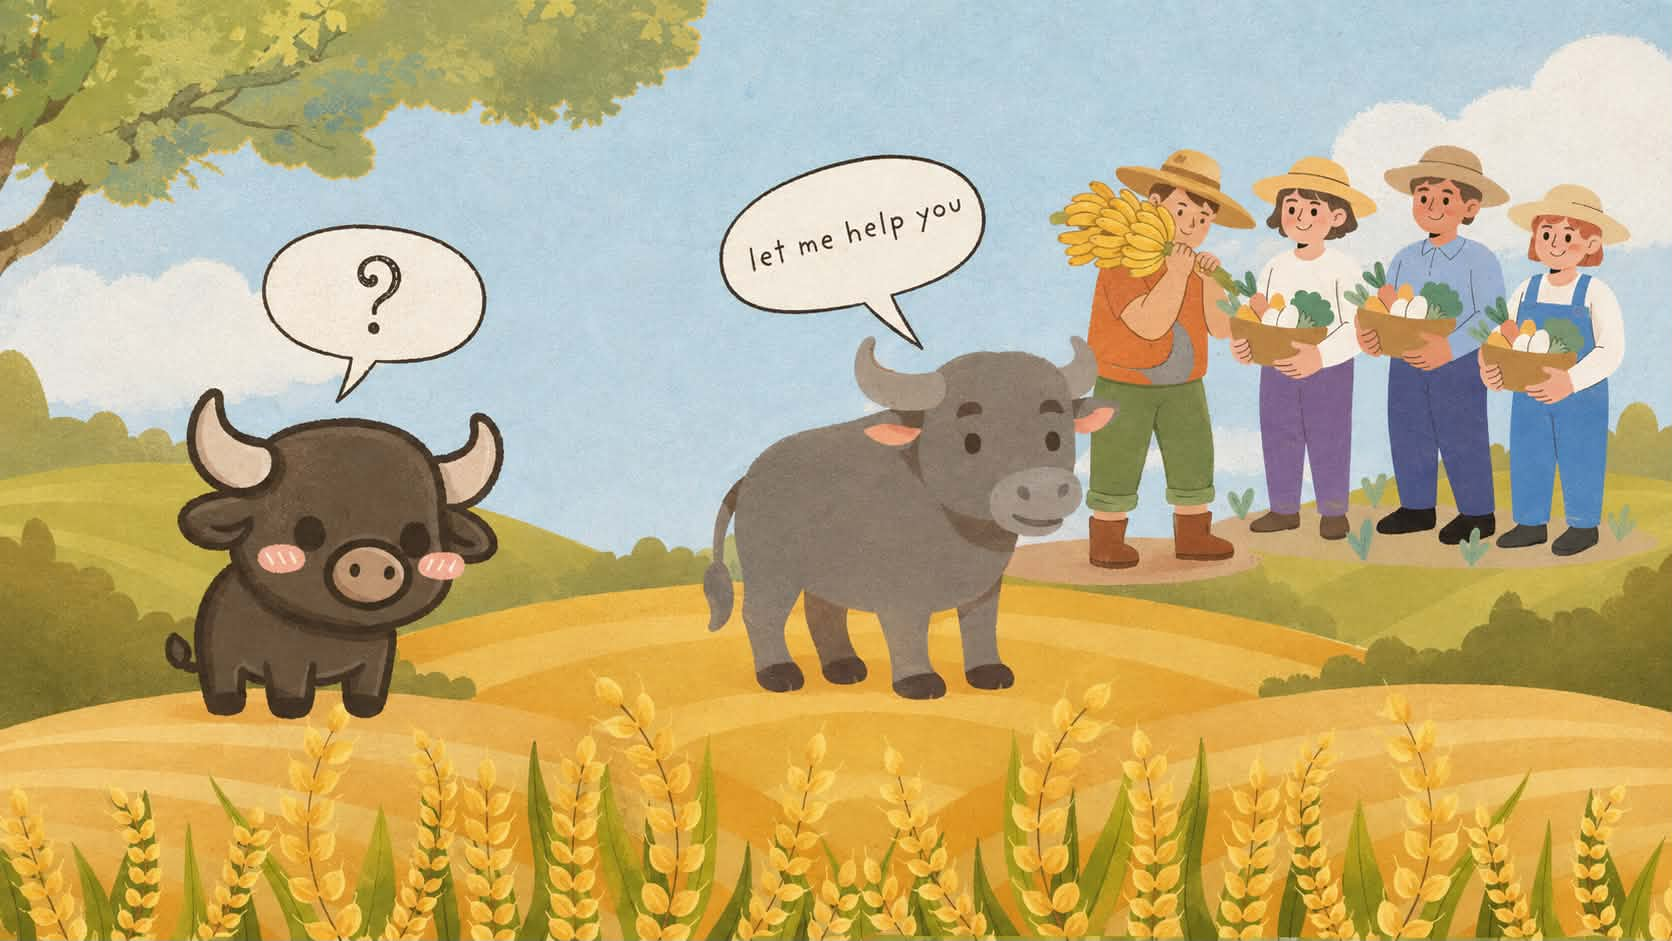
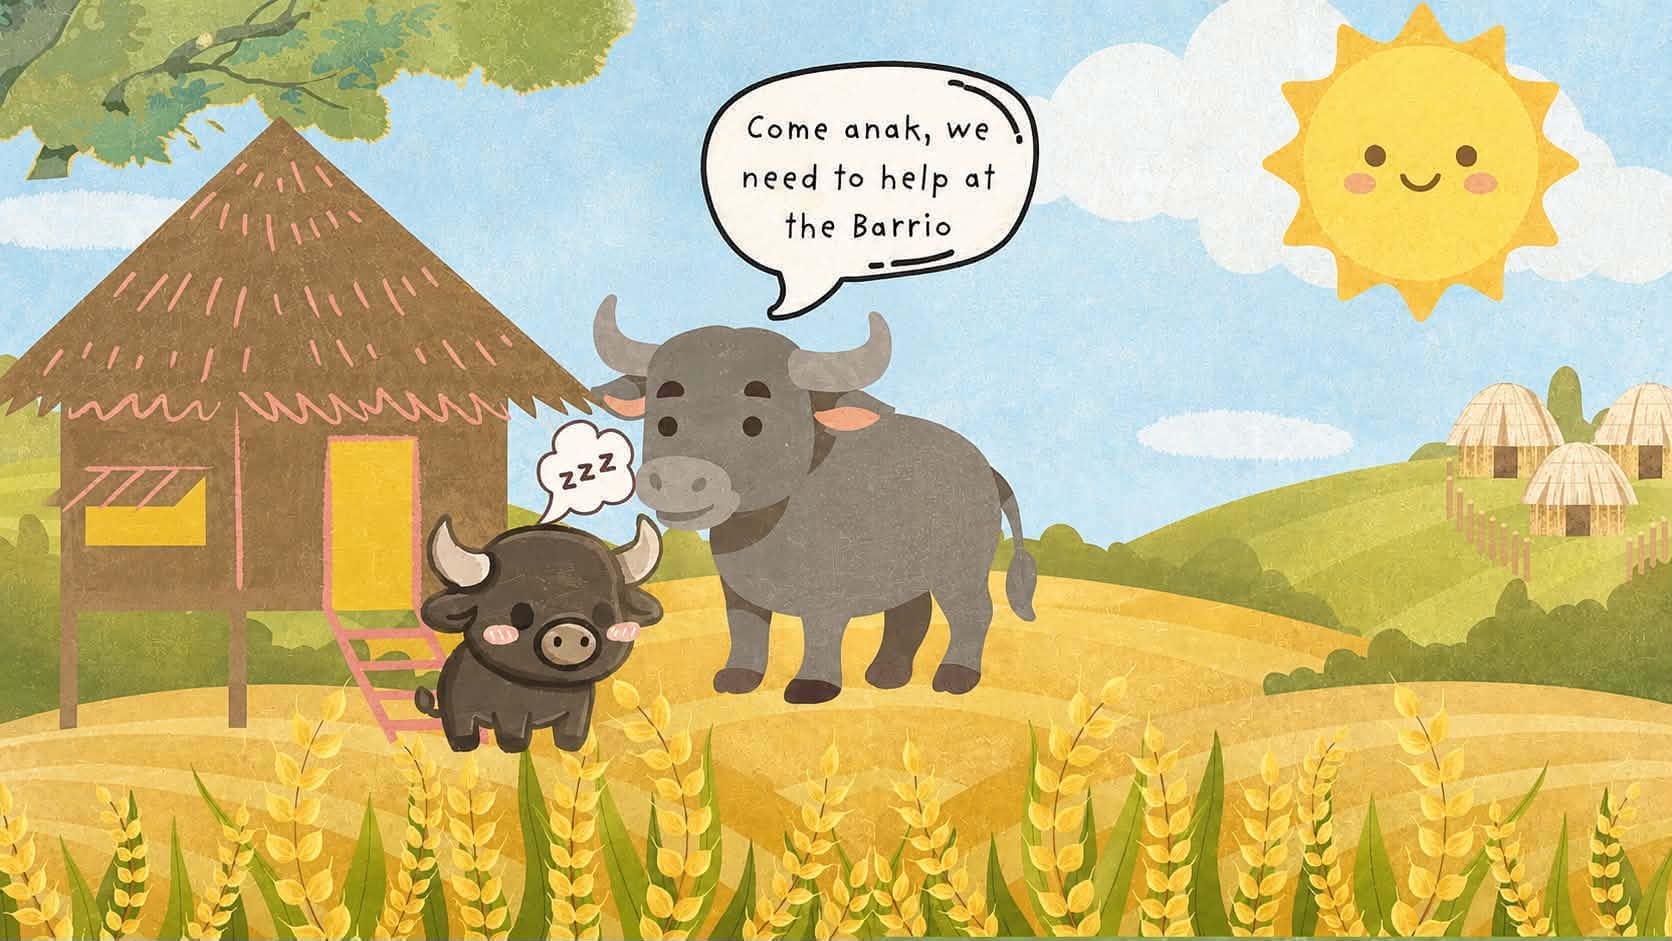
Group 1: move the 'Come anak' panel up to the first body panel
Redo of eb667af, which the revert in 6156062 correctly undid. That
attempt promoted the panel into the FRONT IMAGE slot (01.jpg); the
request was the first BODY panel (01-s2.jpg).

The front image is untouched and stays the opening scene. Only the
first three body panels rotate:

  01-s2  'Come anak, we need to help at the Barrio'  (was 01-s4)
  01-s3  Bago '?' and four villagers                 (was 01-s2)
  01-s4  'huh? why do nanay keeps helping?'          (was 01-s3)

01-s5 through 01-s12 and the cover are unchanged. Alt text moved with
each image.

diff --git a/stories.js b/stories.js
@@ -164,10 +164,10 @@ window.STORIES = [
     "paragraphLimit": 7,
     "body": [
       "In a quiet Filipino village surrounded by green rice fields, where the air whistles softly, there lived a young carabao named Bago and his mother, Nanay Tala. Every morning Nanay Tala would wake early, earlier than the sun, and she would wake Bago before the sun rose. “Come, anak, we need to help at the barrio,” she would say.",
-      { "image": "./assets/img/01-s2.jpg", "alt": "Nanay Tala says “let me help you” to four villagers holding baskets of produce, while a question mark hangs over Bago’s head." },
-      { "image": "./assets/img/01-s3.jpg", "alt": "Bago wonders “huh? why do nanay keeps helping?” as Nanay Tala offers “let me help you” to a farmer and a young rice picker." },
+      { "image": "./assets/img/01-s2.jpg", "alt": "Nanay Tala calls “Come anak, we need to help at the Barrio” while Bago dozes beside the nipa hut in the rice field." },
+      { "image": "./assets/img/01-s3.jpg", "alt": "Nanay Tala says “let me help you” to four villagers holding baskets of produce, while a question mark hangs over Bago’s head." },
       "Bago would follow his mother through the village, but he would often wonder why she always stopped to help others.",
-      { "image": "./assets/img/01-s4.jpg", "alt": "Nanay Tala calls “Come anak, we need to help at the Barrio” while Bago dozes beside the nipa hut in the rice field." },
+      { "image": "./assets/img/01-s4.jpg", "alt": "Bago wonders “huh? why do nanay keeps helping?” as Nanay Tala offers “let me help you” to a farmer and a young rice picker." },
       "She helped the farmers carry heavy bundles of vegetables. She would share their food with hungry goats. She would help the smallest animals cross the muddy road.",
       { "image": "./assets/img/01-s5.jpg", "alt": "Bago asks “Nanay, why do you always help them?” and Nanay Tala answers “Someday, you will understand.”" },
       "One morning Bago asked, “Nanay, why do you always help everyone? What benefit will you receive? Aren’t you tired?” Nanay Tala smiled. “Of course I get tired, anak, but life is easier when we help one another.” “But what if they never help us back?” Bago asked. Nanay Tala gently touched his head with hers. “Helping is not always about getting something in return. Someday you will understand.” But Bago did not completely understand.",

diff --git a/story-01.html b/story-01.html
@@ -142,14 +142,14 @@
     <div class="story__body">
       <p>In a quiet Filipino village surrounded by green rice fields, where the air whistles softly, there lived a young carabao named Bago and his mother, Nanay Tala. Every morning Nanay Tala would wake early, earlier than the sun, and she would wake Bago before the sun rose. “Come, anak, we need to help at the barrio,” she would say.</p>
       <figure class="story__panel">
-        <img src="./assets/img/01-s2.jpg" alt="Nanay Tala says “let me help you” to four villagers holding baskets of produce, while a question mark hangs over Bago’s head." loading="lazy" decoding="async">
+        <img src="./assets/img/01-s2.jpg" alt="Nanay Tala calls “Come anak, we need to help at the Barrio” while Bago dozes beside the nipa hut in the rice field." loading="lazy" decoding="async">
       </figure>
       <figure class="story__panel">
-        <img src="./assets/img/01-s3.jpg" alt="Bago wonders “huh? why do nanay keeps helping?” as Nanay Tala offers “let me help you” to a farmer and a young rice picker." loading="lazy" decoding="async">
+        <img src="./assets/img/01-s3.jpg" alt="Nanay Tala says “let me help you” to four villagers holding baskets of produce, while a question mark hangs over Bago’s head." loading="lazy" decoding="async">
       </figure>
       <p>Bago would follow his mother through the village, but he would often wonder why she always stopped to help others.</p>
       <figure class="story__panel">
-        <img src="./assets/img/01-s4.jpg" alt="Nanay Tala calls “Come anak, we need to help at the Barrio” while Bago dozes beside the nipa hut in the rice field." loading="lazy" decoding="async">
+        <img src="./assets/img/01-s4.jpg" alt="Bago wonders “huh? why do nanay keeps helping?” as Nanay Tala offers “let me help you” to a farmer and a young rice picker." loading="lazy" decoding="async">
       </figure>
       <p>She helped the farmers carry heavy bundles of vegetables. She would share their food with hungry goats. She would help the smallest animals cross the muddy road.</p>
       <figure class="story__panel">
